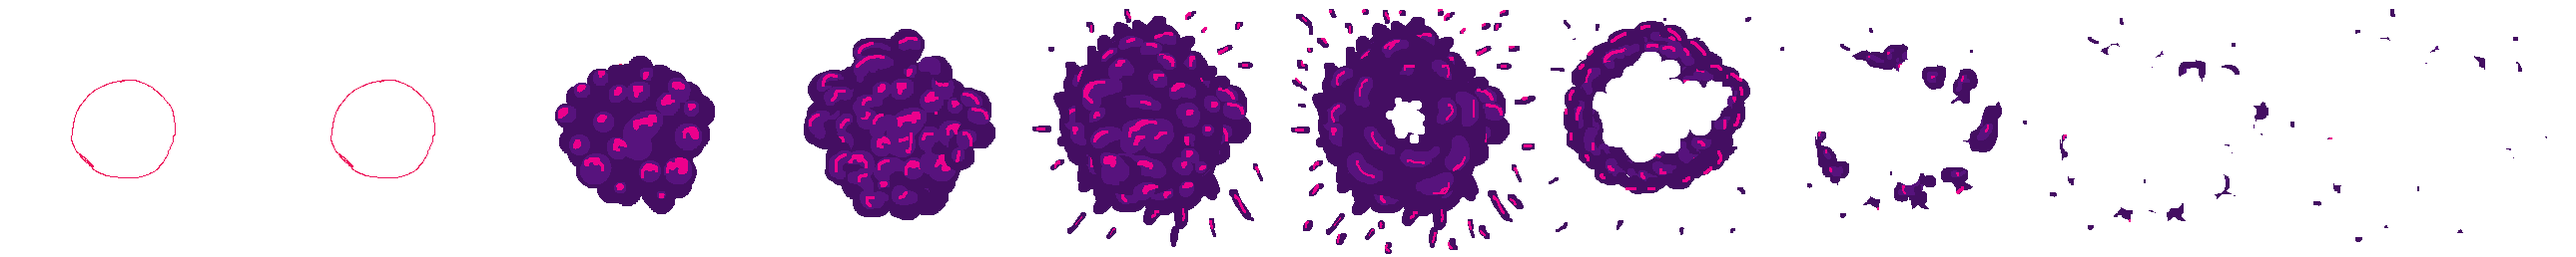
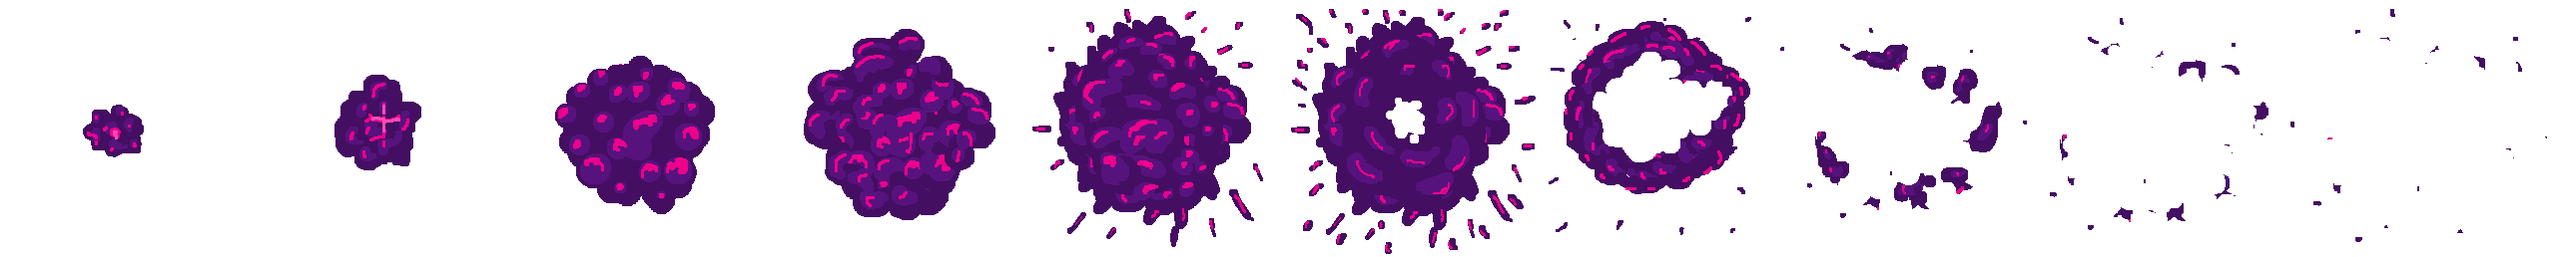
animation

Changed region(s): [[0.124, 0.2791, 0.186, 0.6512], [0.031, 0.4031, 0.062, 0.6202]]

diff --git a/silence/silence/SpineMace.cpp b/silence/silence/SpineMace.cpp
@@ -5,10 +5,10 @@
 
 SpineMace::SpineMace(std::shared_ptr<Entity> player): 
 	Weapon(player),
-	mAttackSpeed(0.5),
+	mAttackSpeed(1),
 	mAnimIdle("spinemaceIdle", 150, 1), mAnimAttack("spinemaceAttack", 100, 10)
 {
-	mCurrentAnimation = &mAnimIdle;
+	mAttacking = false;
 }
 
 SpineMace::~SpineMace()
@@ -17,15 +17,20 @@ SpineMace::~SpineMace()
 }
 
 std::shared_ptr<Entity> SpineMace::shoot(){
+
+
 	if(mAttackTimer.getElapsedTime().asSeconds() > mAttackSpeed){
 
-		mCurrentAnimation = &mAnimAttack;
+		mAttacking = true;
+		mAnimAttack.restart();
+
 		mAttackTimer.restart();
 		return std::make_shared<BulletSpineMace>(getPlayer()->getPos(), getPlayer()); //<------- kolla upp dennna ?
 
 
 	}else{
-		mCurrentAnimation = &mAnimIdle;
+
+		
 		return nullptr;
 
 	}
@@ -33,16 +38,28 @@ std::shared_ptr<Entity> SpineMace::shoot(){
 
 
 sf::Sprite& SpineMace::getSprite(){
+	if (mAnimAttack.loopAmounts() >= 1)
+		mAttacking = false;
+
 	int pX = getPlayer()->getXpos();
 	int pY = getPlayer()->getYpos();
 
-	mCurrentAnimation->getSprite().setPosition(
-		pX - mCurrentAnimation->getSprite().getTextureRect().width / 2,
-		pY - mCurrentAnimation->getSprite().getTextureRect().height / 2);
-	mCurrentAnimation->update();
-	return mCurrentAnimation->getSprite();
+	mAnimIdle.getSprite().setPosition(
+		pX - mAnimAttack.getSprite().getTextureRect().width / 2,
+		pY - mAnimAttack.getSprite().getTextureRect().height / 2);
+	mAnimIdle.update();
+	
+	mAnimAttack.getSprite().setPosition(
+		pX - mAnimAttack.getSprite().getTextureRect().width / 2,
+		pY - mAnimAttack.getSprite().getTextureRect().height / 2);
+	mAnimAttack.update();
+
+	if (mAttacking)
+		return mAnimAttack.getSprite();
+	else
+		return mAnimIdle.getSprite();
 }
 
 sf::FloatRect SpineMace::getColBox(){
-	return mCurrentAnimation->getSprite().getGlobalBounds();
+	return mAnimIdle.getSprite().getGlobalBounds();
 }

diff --git a/silence/silence/BulletSpineMace.cpp b/silence/silence/BulletSpineMace.cpp
@@ -8,7 +8,7 @@ BulletSpineMace::BulletSpineMace(sf::Vector2f mpos, std::shared_ptr<Entity> ent)
 }
 
 void BulletSpineMace::update(){
-	if(mTimer.getElapsedTime().asSeconds() > 1){
+	if(mTimer.getElapsedTime().asSeconds() > 0.1f){
 		kill();
 	}
 }
@@ -18,6 +18,8 @@ void BulletSpineMace::render(){
 }
 
 void BulletSpineMace::ResolveCollision(std::shared_ptr<Entity> entity){
+	if (isDead())
+		return;
 	if(entity->isID("Enemy")){
 		std::shared_ptr<Enemy> enemy = std::dynamic_pointer_cast<Enemy>(entity);
 		if(enemy){

diff --git a/silence/silence/DeathAnimation.h b/silence/silence/DeathAnimation.h
@@ -5,8 +5,14 @@
 
 class DeathAnimation : public AnimationEntity
 {
-	DeathAnimation(sf::Vector2f pos):
-		AnimationEntity(pos, "deathanimationenemy", 100, 10){};
+public:
+	DeathAnimation(sf::Vector2f pos, float scale):
+		AnimationEntity(pos - sf::Vector2f(0, 24), "deathanimationenemy", 50, 10){
+			getAnimation().getSprite().setScale(scale, scale);
+			getAnimation().getSprite().setOrigin(129, 129);
+		};
+private:
+	float mScale;
 };
 
 #endif

diff --git a/silence/silence/main.cpp b/silence/silence/main.cpp
@@ -46,7 +46,7 @@ void loadTextures()
 	r->loadTexture("BatDown", "images/fladdermus-sprite.png",sf::IntRect(0,0,1280,128));
 
 	//AnimationEntities
-	r->loadTexture("deathanimationenemy", "death_animation_enemy_png",sf::IntRect(0,0,1280,128));
+	r->loadTexture("deathanimationenemy", "death_animation_enemy_png.png",sf::IntRect(0,0,2580,258));
 
 }
 

diff --git a/silence/silence/Frog.h b/silence/silence/Frog.h
@@ -14,9 +14,6 @@ public:
 	virtual void update();
 	virtual void render();
 
-	virtual std::string isID(std::string ID);
-	virtual float getDamage();
-	virtual void setHP(float damage);
 	virtual sf::FloatRect getColBox();
 	virtual void ResolveCollision(std::shared_ptr<Entity> entity);
 private:

diff --git a/silence/silence/AnimationEntity.h b/silence/silence/AnimationEntity.h
@@ -16,7 +16,8 @@ public:
 	virtual void render();
 	virtual sf::FloatRect getColBox() {return sf::FloatRect(0.f,0.f,0.f,0.f);};
 	void ResolveCollision(std::shared_ptr<Entity>) {};
-
+protected:
+	Animation& getAnimation() {return mAnimation;};
 private:
 	Animation mAnimation;
 };

diff --git a/silence/silence/Animation.h b/silence/silence/Animation.h
@@ -17,6 +17,7 @@ public:
 	void update();
 	void setPosition(sf::Vector2f& pos);
 
+	void restart() {mCurrentFrame = 0; mLoopAmounts = 0;};
 	size_t loopAmounts() {return mLoopAmounts;};
 
 	const sf::Sprite& getSprite() const;

diff --git a/silence/silence/AnimationEntity.cpp b/silence/silence/AnimationEntity.cpp
@@ -17,5 +17,6 @@ void AnimationEntity::update()
 
 void AnimationEntity::render()
 {
+	mAnimation.getSprite().setPosition(getXpos(), getYpos());
 	WindowManager::getInstance()->renderToCanvas(mAnimation.getSprite(), 4);
 }

diff --git a/silence/silence/Frog.cpp b/silence/silence/Frog.cpp
@@ -27,7 +27,7 @@ void Frog::update()
 {
 	if (getHP() < 0.f)
 	{
-		Drop(std::make_shared<DeathAnimation>(mPos));
+		Drop(std::make_shared<DeathAnimation>(mPos, 0.8));
 		kill();
 	}
 	sf::Vector2f move(0,0);

diff --git a/silence/silence/Bat.cpp b/silence/silence/Bat.cpp
@@ -26,7 +26,7 @@ void Bat::update()
 
 	if (getHP() < 0.f)
 	{
-		Drop(std::make_shared<DeathAnimation>(mPos));
+		Drop(std::make_shared<DeathAnimation>(mPos, 0.6));
 		kill();
 	}
 	sf::Vector2f move(0,0);

diff --git a/silence/silence/MegaSuperHackerGuy.cpp b/silence/silence/MegaSuperHackerGuy.cpp
@@ -29,7 +29,7 @@ void MegaSuperHackerGuy::update()
 {
 	if (getHP() < 0.f)
 	{
-		Drop(std::make_shared<DeathAnimation>(mPos));
+		Drop(std::make_shared<DeathAnimation>(mPos, 1.f));
 		kill();
 	}
 

diff --git a/silence/silence/SpineMace.h b/silence/silence/SpineMace.h
@@ -20,7 +20,9 @@ public:
 private:
 	Animation mAnimIdle;
 	Animation mAnimAttack;
-	Animation* mCurrentAnimation;
+
+	bool mAttacking;
+
 	sf::Clock mAttackTimer;
 
 	float mAttackSpeed;
